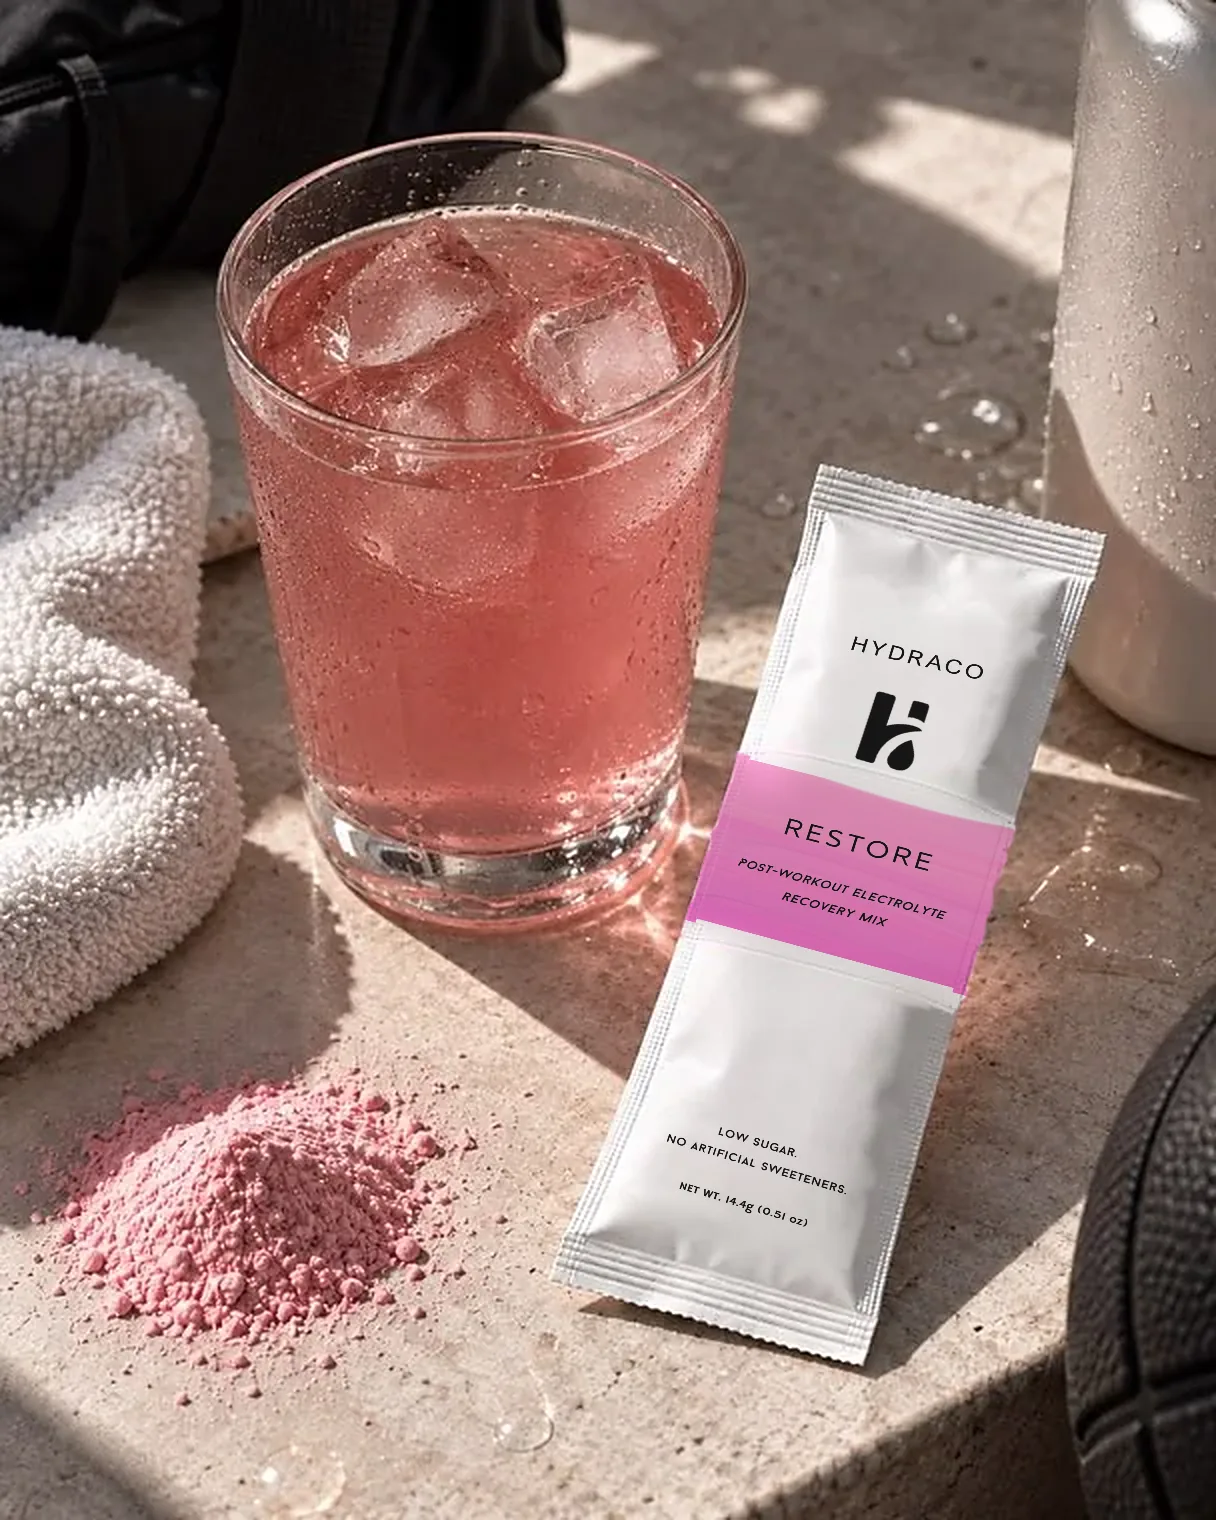
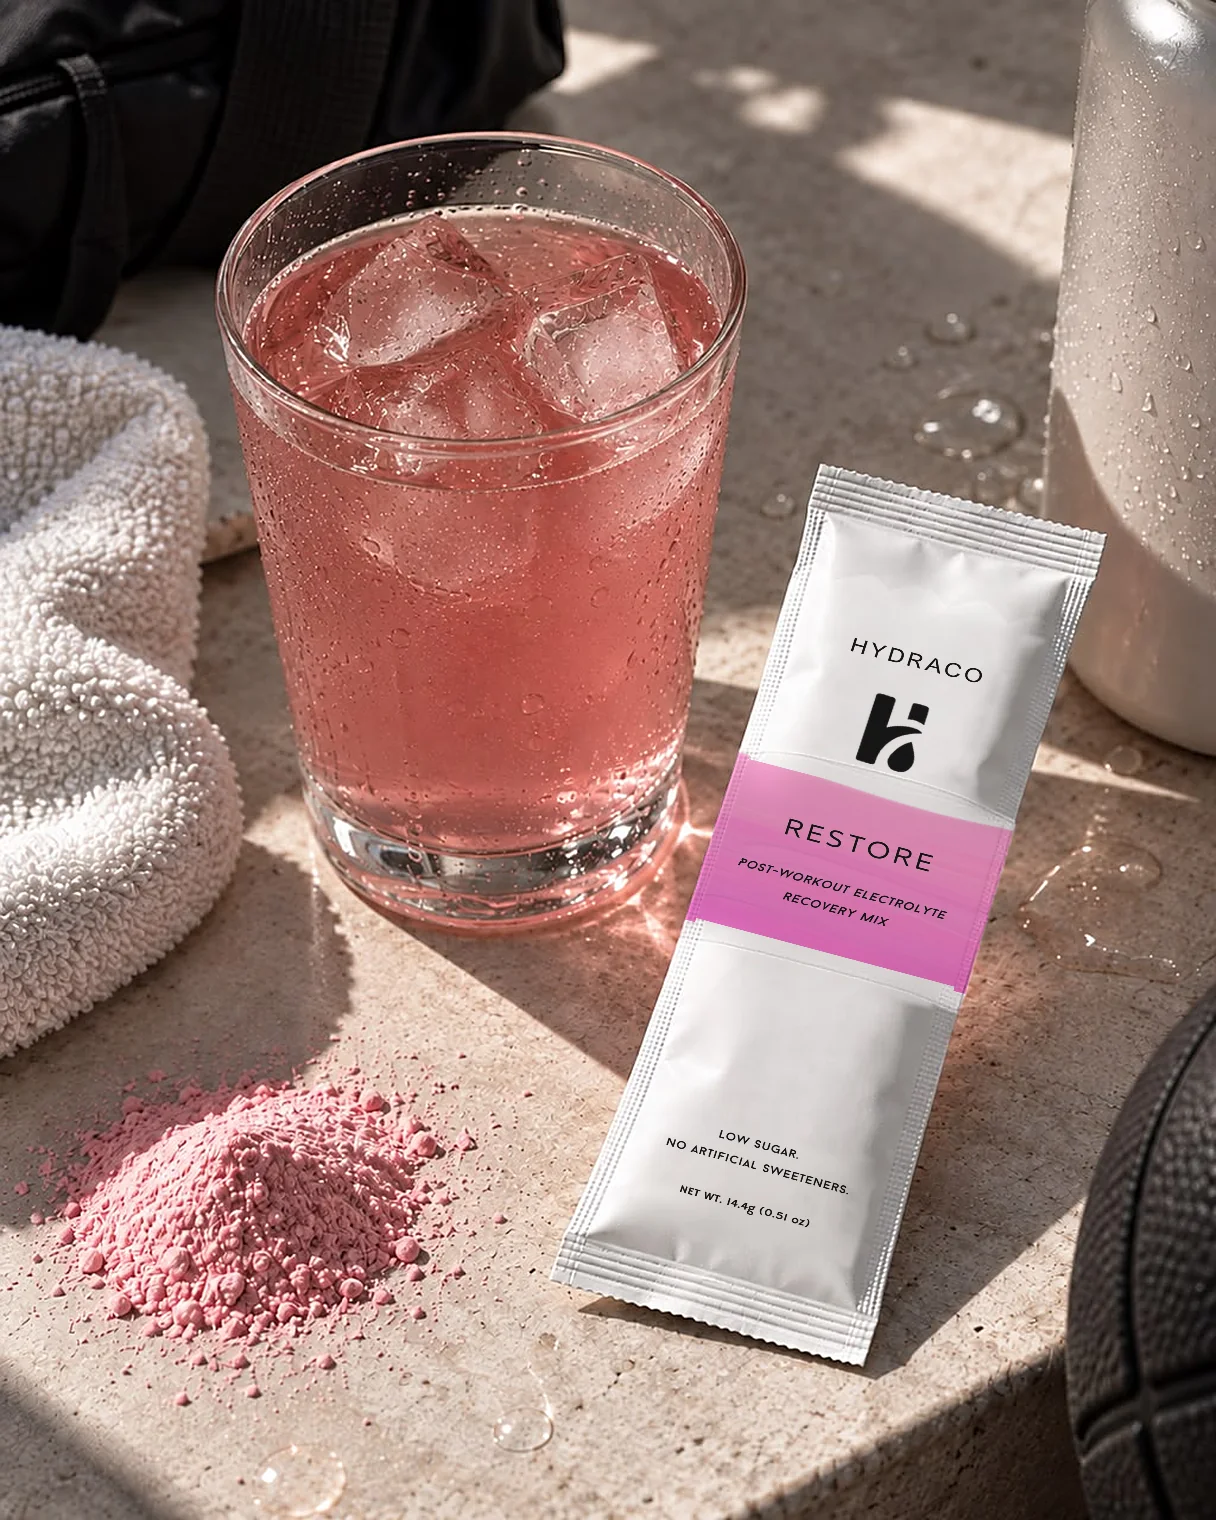
Rebuild photos from the full-size originals; name the flavor throughout
Re-run the label re-print on the original photo files (bigger than the
copies the site was using for three of them), and say Strawberry
Lemonade under the hero, in the strip, order intro and summary, the
order details, page descriptions and the Stripe line item.

diff --git a/index.html b/index.html
@@ -13,14 +13,14 @@
 <meta charset="utf-8">
 <meta name="viewport" content="width=device-width, initial-scale=1, viewport-fit=cover">
 <title>Hydraco Restore — Post-Workout Electrolyte Recovery Mix</title>
-<meta name="description" content="Hydraco Restore is a post-workout electrolyte recovery mix — low sugar, no artificial sweeteners, with tart cherry and pomegranate. Designed for recovery, not stimulation.">
+<meta name="description" content="Hydraco Restore is a strawberry lemonade post-workout electrolyte recovery mix — low sugar, no artificial sweeteners, with tart cherry and pomegranate. Designed for recovery, not stimulation.">
 <link rel="canonical" href="https://www.drinkhydraco.com/">
 <link rel="icon" type="image/png" href="/images/favicon.png">
 <link rel="apple-touch-icon" href="/images/apple-touch-icon.png">
 <meta property="og:type" content="website">
 <meta property="og:site_name" content="Hydraco">
 <meta property="og:title" content="Hydraco Restore — Post-Workout Electrolyte Recovery Mix">
-<meta property="og:description" content="Hydraco Restore is a post-workout electrolyte recovery mix — low sugar, no artificial sweeteners, with tart cherry and pomegranate. Designed for recovery, not stimulation.">
+<meta property="og:description" content="Hydraco Restore is a strawberry lemonade post-workout electrolyte recovery mix — low sugar, no artificial sweeteners, with tart cherry and pomegranate. Designed for recovery, not stimulation.">
 <meta property="og:url" content="https://www.drinkhydraco.com/">
 <meta property="og:image" content="https://www.drinkhydraco.com/images/og.jpg?v=pack3">
 <meta property="og:image:width" content="1200">
@@ -28,7 +28,7 @@
 <meta property="og:image:alt" content="A Hydraco Restore stick pack beside a glass of the prepared drink in a gym">
 <meta name="twitter:card" content="summary_large_image">
 <meta name="twitter:image" content="https://www.drinkhydraco.com/images/og.jpg?v=pack3">
-<script type="application/ld+json">[{"@context": "https://schema.org", "@type": "Organization", "name": "Hydraco", "url": "https://www.drinkhydraco.com/", "logo": "https://www.drinkhydraco.com/images/apple-touch-icon.png", "email": "hydracompanymd@gmail.com", "sameAs": ["https://www.instagram.com/hydracofficial"]}, {"@context": "https://schema.org", "@type": "Product", "name": "Hydraco Restore", "description": "Hydraco Restore is a post-workout electrolyte recovery mix — low sugar, no artificial sweeteners, with tart cherry and pomegranate. Designed for recovery, not stimulation.", "image": "https://www.drinkhydraco.com/images/og.jpg?v=pack3", "brand": {"@type": "Brand", "name": "Hydraco"}, "category": "Electrolyte drink mix", "offers": {"@type": "AggregateOffer", "priceCurrency": "USD", "lowPrice": "2.45", "highPrice": "89.55", "offerCount": 4, "availability": "https://schema.org/InStock", "url": "https://www.drinkhydraco.com/#order"}}, {"@context": "https://schema.org", "@type": "FAQPage", "mainEntity": [{"@type": "Question", "name": "How do I use it?", "acceptedAnswer": {"@type": "Answer", "text": "Pour one stick pack into 16–32 oz of cold water, shake or stir, and drink it after training. One stick is one serving."}}, {"@type": "Question", "name": "How do I pay?", "acceptedAnswer": {"@type": "Answer", "text": "By Zelle, Apple Cash, or card — pick one in the order form. Card and Apple Pay payments go through Stripe's secure checkout; we never see or store your card number."}}, {"@type": "Question", "name": "Where do you deliver, and what does it cost?", "acceptedAnswer": {"@type": "Answer", "text": "Delivery is free in NYC and in Maryland, D.C. and Virginia, within about an hour of our office. Anywhere else, including internationally, email us for a delivery quote before you order."}}, {"@type": "Question", "name": "When will my order arrive?", "acceptedAnswer": {"@type": "Answer", "text": "Usually within a few days. Restore is made in small batches and orders are filled in the order they come in; we email you to confirm your delivery date, usually within one business day."}}, {"@type": "Question", "name": "How should I store it?", "acceptedAnswer": {"@type": "Answer", "text": "In a cool, dry place. Best before January 2027."}}, {"@type": "Question", "name": "Is it safe for me?", "acceptedAnswer": {"@type": "Answer", "text": "It's a food, not a medicine. The full notice, allergen and cottage-food details are in the footer below."}}]}]</script>
+<script type="application/ld+json">[{"@context": "https://schema.org", "@type": "Organization", "name": "Hydraco", "url": "https://www.drinkhydraco.com/", "logo": "https://www.drinkhydraco.com/images/apple-touch-icon.png", "email": "hydracompanymd@gmail.com", "sameAs": ["https://www.instagram.com/hydracofficial"]}, {"@context": "https://schema.org", "@type": "Product", "name": "Hydraco Restore", "description": "Hydraco Restore is a strawberry lemonade post-workout electrolyte recovery mix — low sugar, no artificial sweeteners, with tart cherry and pomegranate. Designed for recovery, not stimulation.", "image": "https://www.drinkhydraco.com/images/og.jpg?v=pack3", "brand": {"@type": "Brand", "name": "Hydraco"}, "category": "Electrolyte drink mix", "offers": {"@type": "AggregateOffer", "priceCurrency": "USD", "lowPrice": "2.45", "highPrice": "89.55", "offerCount": 4, "availability": "https://schema.org/InStock", "url": "https://www.drinkhydraco.com/#order"}}, {"@context": "https://schema.org", "@type": "FAQPage", "mainEntity": [{"@type": "Question", "name": "How do I use it?", "acceptedAnswer": {"@type": "Answer", "text": "Pour one stick pack into 16–32 oz of cold water, shake or stir, and drink it after training. One stick is one serving."}}, {"@type": "Question", "name": "How do I pay?", "acceptedAnswer": {"@type": "Answer", "text": "By Zelle, Apple Cash, or card — pick one in the order form. Card and Apple Pay payments go through Stripe's secure checkout; we never see or store your card number."}}, {"@type": "Question", "name": "Where do you deliver, and what does it cost?", "acceptedAnswer": {"@type": "Answer", "text": "Delivery is free in NYC and in Maryland, D.C. and Virginia, within about an hour of our office. Anywhere else, including internationally, email us for a delivery quote before you order."}}, {"@type": "Question", "name": "When will my order arrive?", "acceptedAnswer": {"@type": "Answer", "text": "Usually within a few days. Restore is made in small batches and orders are filled in the order they come in; we email you to confirm your delivery date, usually within one business day."}}, {"@type": "Question", "name": "How should I store it?", "acceptedAnswer": {"@type": "Answer", "text": "In a cool, dry place. Best before January 2027."}}, {"@type": "Question", "name": "Is it safe for me?", "acceptedAnswer": {"@type": "Answer", "text": "It's a food, not a medicine. The full notice, allergen and cottage-food details are in the footer below."}}]}]</script>
 <meta name="theme-color" content="#00a9ac">
 <link rel="preconnect" href="https://fonts.googleapis.com">
 <link rel="preconnect" href="https://fonts.gstatic.com" crossorigin>
@@ -323,6 +323,9 @@ section{padding-block:clamp(84px,11vw,168px)}
   letter-spacing:.1em;text-transform:uppercase;font-weight:400;
   line-height:.98;color:#0e1414;position:relative;z-index:1;
 }
+/* the one flavor, said plainly under the headline */
+.hero-flavor{margin-top:10px;font-size:.78rem;letter-spacing:.16em;text-transform:uppercase;font-weight:600;color:var(--pink-ink)}
+.hero-flavor span{color:var(--slate);font-weight:500;margin-right:.5em}
 .hero-sub{
   display:block;line-height:1.5;
   font-style:italic;font-weight:500;font-size:clamp(.95rem,2.2vw,1.12rem);
@@ -2171,6 +2174,7 @@ body.fun-mode .galaxy-bg{opacity:1}
     <div class="hero-copy">
       <h1><span class="hero-stroke">Restore</span><span class="hero-sub">Post-workout electrolyte recovery mix</span></h1>
       <p class="hero-lede">Designed for recovery, not stimulation.</p>
+      <p class="hero-flavor"><span>Flavor</span> Strawberry Lemonade</p>
 
       <div class="hero-buybox" role="group" aria-label="Quick pack picker">
         <div class="hero-buybox-opts">
@@ -2211,17 +2215,17 @@ body.fun-mode .galaxy-bg{opacity:1}
     </div>
 
     <div class="hero-photo rv">
-      <img src="/images/hero.webp?v=pack3" class="photo-frame" alt="HYDRACO Restore post-workout electrolyte recovery mix packet, standing beside a glass of the prepared drink" width="853" height="1280" fetchpriority="high">
+      <img src="/images/hero.webp?v=pack4" class="photo-frame" alt="HYDRACO Restore post-workout electrolyte recovery mix packet, standing beside a glass of the prepared drink" width="853" height="1280" fetchpriority="high">
     </div>
   </header>
 
   <!-- ============ STRIP ============ -->
   <div class="strip" aria-hidden="true">
     <div class="strip-track">
-      <span>No chemicals</span><span>Pure ingredients</span><span>Low sugar</span><span>No artificial sweeteners</span>
+      <span>Strawberry lemonade</span><span>No chemicals</span><span>Pure ingredients</span><span>Low sugar</span><span>No artificial sweeteners</span>
       <span>Tart cherry</span><span>Pomegranate</span><span>Coconut water</span><span>Pink Himalayan salt</span>
       <span>Monk fruit</span><span>50 calories</span>
-      <span>No chemicals</span><span>Pure ingredients</span><span>Low sugar</span><span>No artificial sweeteners</span>
+      <span>Strawberry lemonade</span><span>No chemicals</span><span>Pure ingredients</span><span>Low sugar</span><span>No artificial sweeteners</span>
       <span>Tart cherry</span><span>Pomegranate</span><span>Coconut water</span><span>Pink Himalayan salt</span>
       <span>Monk fruit</span><span>50 calories</span>
     </div>
@@ -2269,7 +2273,7 @@ body.fun-mode .galaxy-bg{opacity:1}
 
   <!-- ============ GYM / RECOVERY BAND ============ -->
   <div class="gym-band rv" aria-label="HYDRACO Restore in a post-workout gym setting">
-    <img src="/images/gym-band.webp?v=pack3" alt="HYDRACO Restore electrolyte packet and drink in a post-workout gym setting" loading="lazy" decoding="async" width="1280" height="853">
+    <img src="/images/gym-band.webp?v=pack4" alt="HYDRACO Restore electrolyte packet and drink in a post-workout gym setting" loading="lazy" decoding="async" width="1280" height="853">
     <div class="gym-band-copy">
       <p>Built for the hours after, not the minutes during.</p>
     </div>
@@ -2484,8 +2488,8 @@ body.fun-mode .galaxy-bg{opacity:1}
         </div>
 
         <div class="inside-photos rv">
-          <img src="/images/inside-packet.webp?v=pack3" class="photo-frame" alt="HYDRACO Restore electrolyte packet beside a glass of the prepared electrolyte drink" loading="lazy" width="608" height="760">
-          <img src="/images/inside-pour.webp?v=pack3" class="photo-frame" alt="HYDRACO Restore electrolyte powder being poured into an iced drink" loading="lazy" width="760" height="506">
+          <img src="/images/inside-packet.webp?v=pack4" class="photo-frame" alt="HYDRACO Restore electrolyte packet beside a glass of the prepared electrolyte drink" loading="lazy" width="608" height="760">
+          <img src="/images/inside-pour.webp?v=pack4" class="photo-frame" alt="HYDRACO Restore electrolyte powder being poured into an iced drink" loading="lazy" width="760" height="506">
         </div>
       </div>
 
@@ -2730,7 +2734,7 @@ body.fun-mode .galaxy-bg{opacity:1}
         <span class="tag">Order</span>
         <h2>Choose <span class="doodle-underline">your pack<svg class="doodle-svg" viewBox="0 0 120 18" fill="none" stroke="var(--pink-ink)" stroke-width="2.6" stroke-linecap="round" stroke-linejoin="round" aria-hidden="true" filter="url(#sketch-sm)"><path d="M3 10 C 25 2, 50 15, 75 6 C 92 1, 108 12, 117 8"/></svg></span></h2>
         <p style="color:var(--ink-soft);font-family:Newsreader,Georgia,serif;font-size:1.14rem;line-height:1.78">
-          Made in small batches. Pay by Zelle, Apple Cash or card.
+          Restore in Strawberry Lemonade, made in small batches. Pay by Zelle, Apple Cash or card.
           Or join as a member: 41, 59 or 95 sticks a month from $1.95 a stick, billed monthly, cancel anytime.
         </p>
       </div>
@@ -2792,6 +2796,7 @@ body.fun-mode .galaxy-bg{opacity:1}
         <p hidden><label>Leave this empty: <input name="company-website" tabindex="-1" autocomplete="off"></label></p>
         <input type="hidden" name="order_ref"  id="hOrderRef">
         <input type="hidden" name="payment_method" id="hPayMethod">
+        <input type="hidden" name="flavor"     value="Strawberry Lemonade">
         <input type="hidden" name="pack"       id="hPack">
         <input type="hidden" name="quantity"   id="hQty">
         <input type="hidden" name="unit_price" id="hUnit">
@@ -2882,6 +2887,7 @@ body.fun-mode .galaxy-bg{opacity:1}
 
         <aside class="order-side">
           <div class="totals">
+            <div><span>Flavor</span><span>Strawberry Lemonade</span></div>
             <div><span id="tLine">19-pack &times; 1</span><span id="tSub">$39.71</span></div>
             <div><span>Delivery</span><span id="tShip">Free</span></div>
             <div class="grand"><span>Total due</span><span id="tTotal">$39.71</span></div>
@@ -2906,7 +2912,7 @@ body.fun-mode .galaxy-bg{opacity:1}
       </form>
 
       <div class="preorder-photo rv">
-        <img src="/images/preorder.webp?v=pack3" class="photo-frame" alt="Three HYDRACO Restore electrolyte recovery mix packets" loading="lazy" width="720" height="900">
+        <img src="/images/preorder.webp?v=pack4" class="photo-frame" alt="Three HYDRACO Restore electrolyte recovery mix packets" loading="lazy" width="720" height="900">
       </div>
 
     </div>

diff --git a/api/create-checkout-session.js b/api/create-checkout-session.js
@@ -62,8 +62,8 @@ module.exports = async (req, res) => {
   params.set("line_items[0][price_data][currency]", "usd");
   params.set("line_items[0][price_data][unit_amount]", String(unitAmountCents));
   params.set("line_items[0][price_data][product_data][name]", member
-    ? "Hydraco Membership — " + sticks + " stick packs every month"
-    : "Hydraco Restore — " + sticks + "-pack");
+    ? "Hydraco Membership — " + sticks + " Strawberry Lemonade stick packs every month"
+    : "Hydraco Restore, Strawberry Lemonade — " + sticks + "-pack");
   if (member) {
     params.set("line_items[0][price_data][recurring][interval]", "month");
     // session metadata doesn't carry over to the subscription Stripe creates,
